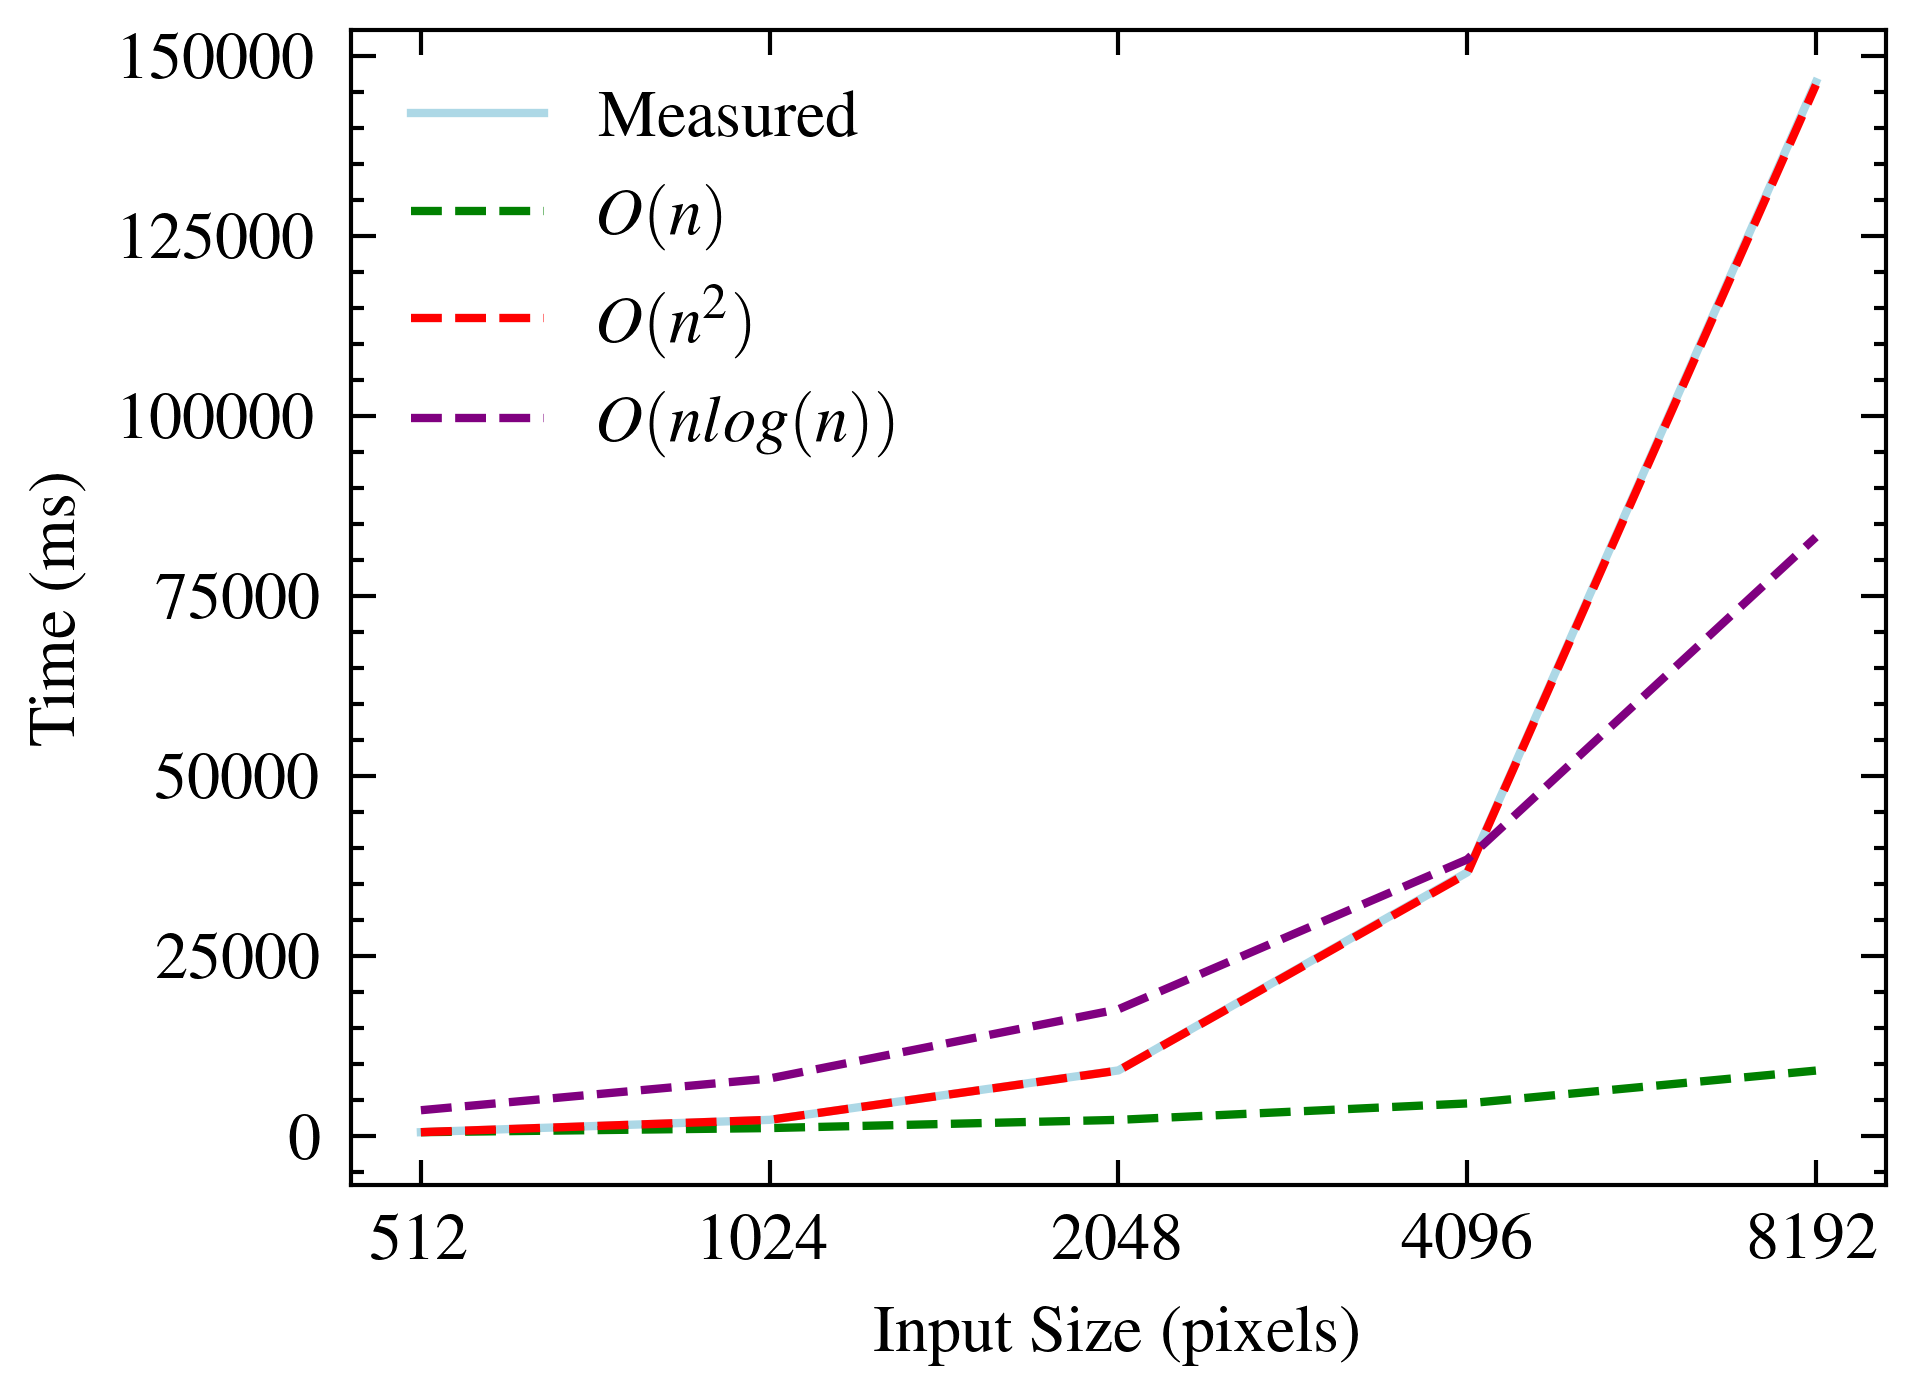
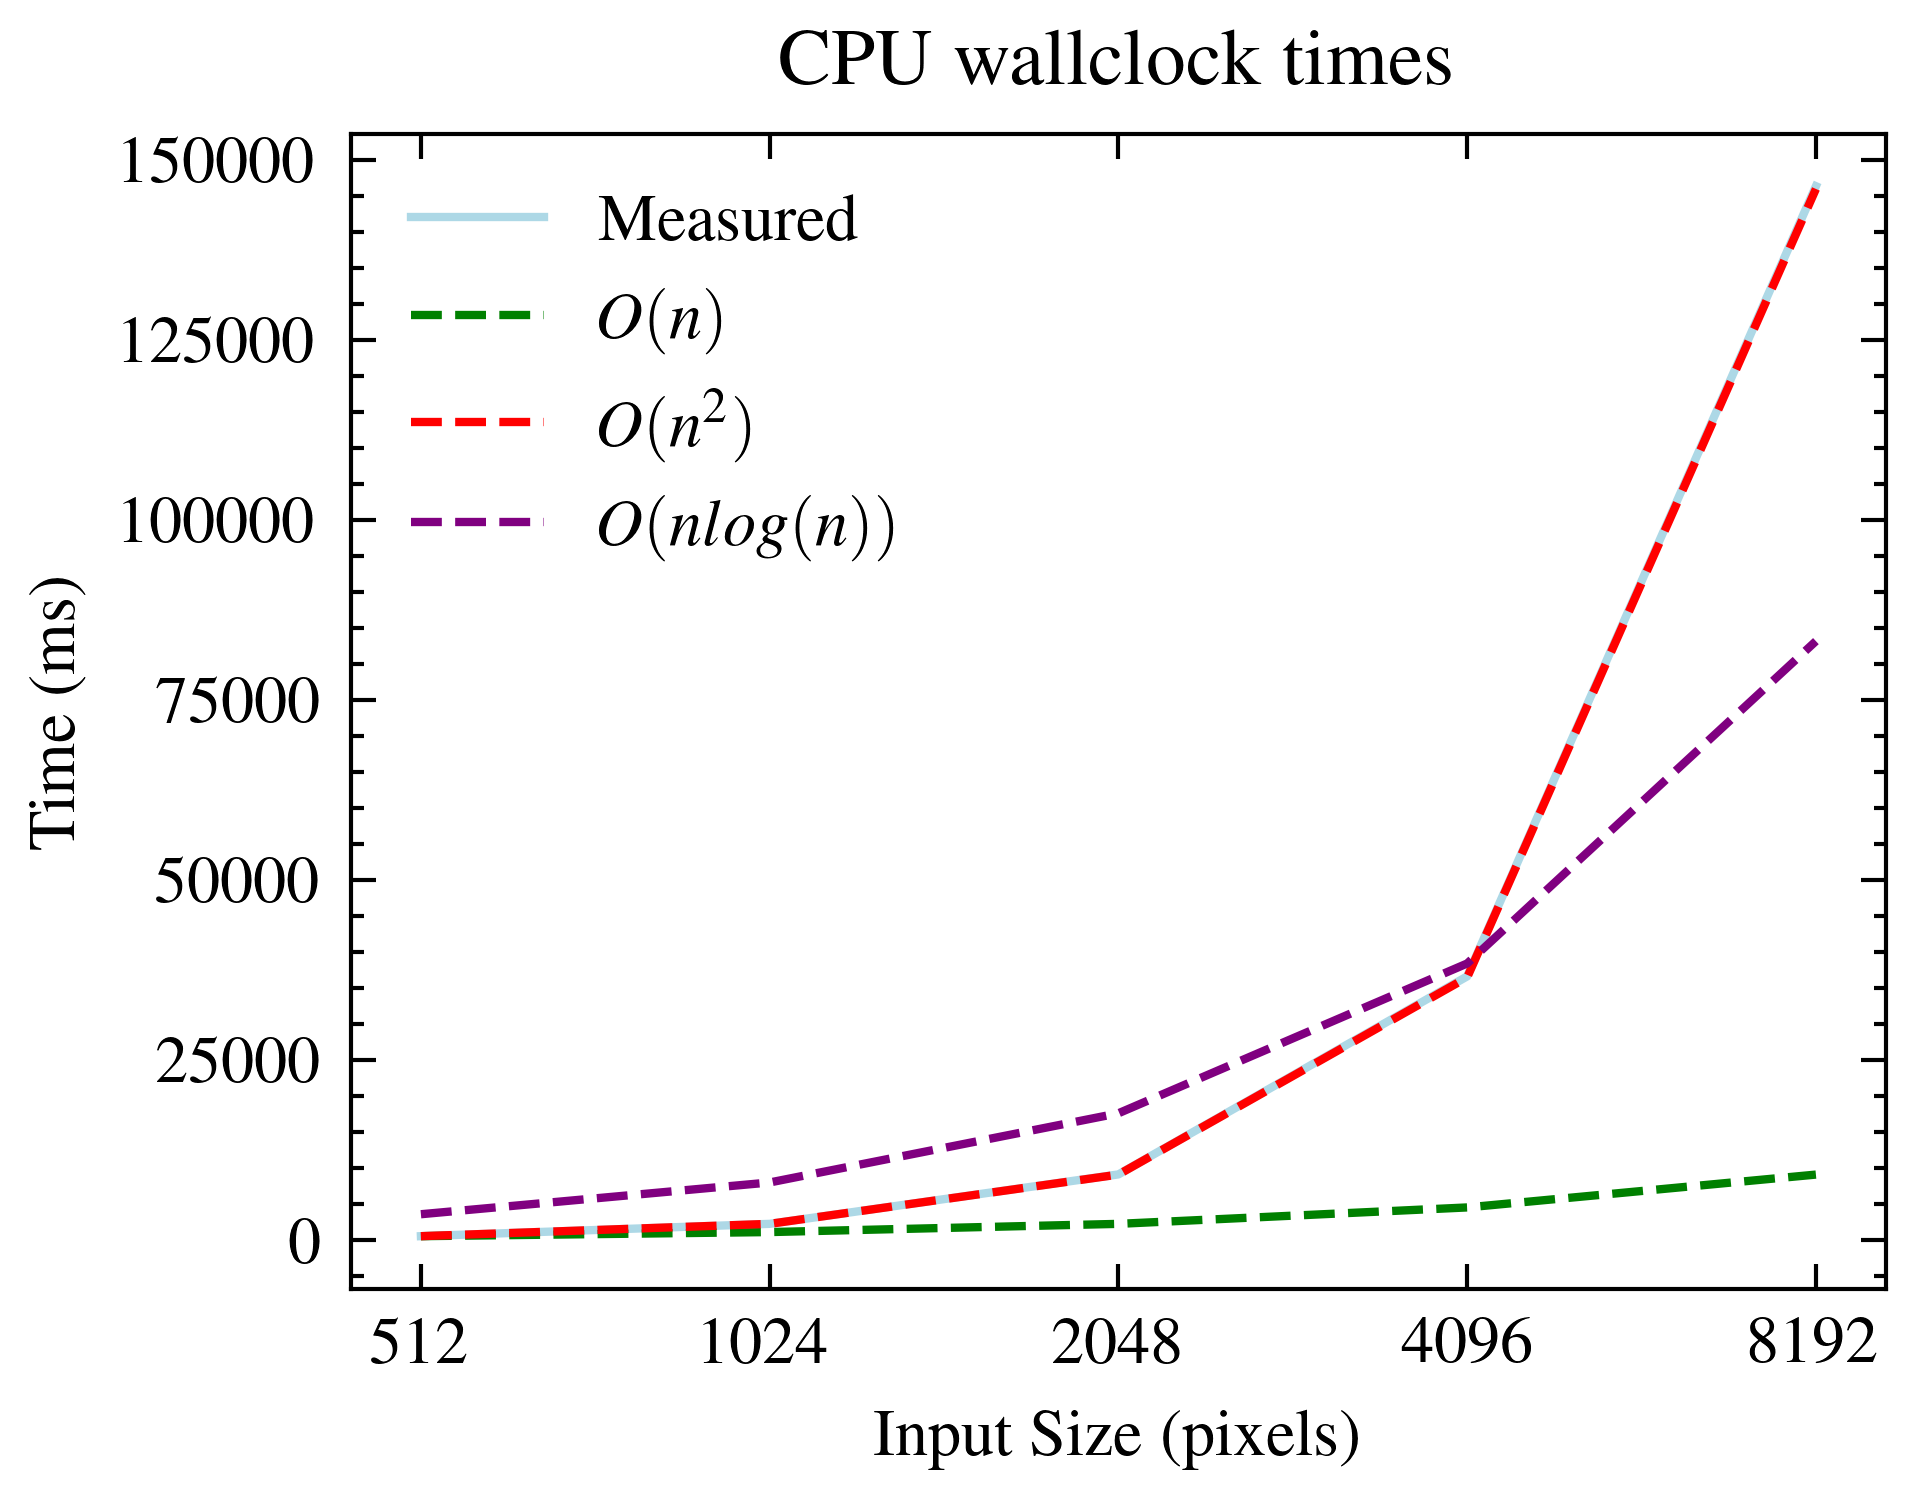
include result in markdown

diff --git a/src/figures.py b/src/figures.py
@@ -22,6 +22,7 @@ onlogn = on * np.log(on)
 ax.plot(x, on, label=r"$O(n)$", color="green", linestyle="--")
 ax.plot(x, on2, label=r"$O(n^2)$", color="red", linestyle="--")
 ax.plot(x, onlogn, label=r"$O(nlog(n))$", color="purple", linestyle="--")
+ax.set_title("GPU wallclock times")
 
 ax.set_ylabel("Time (ms)")
 ax.set_xscale("log", base=2)
@@ -50,6 +51,7 @@ onlogn_cpu = on_cpu * np.log(on_cpu)
 ax.plot(x_cpu, on_cpu, label=r"$O(n)$", color="green", linestyle="--")
 ax.plot(x_cpu, on2_cpu, label=r"$O(n^2)$", color="red", linestyle="--")
 ax.plot(x_cpu, onlogn_cpu, label=r"$O(nlog(n))$", color="purple", linestyle="--")
+ax.set_title("CPU wallclock times")
 
 ax.set_ylabel("Time (ms)")
 ax.set_xscale("log", base=2)

diff --git a/README.md b/README.md
@@ -2,11 +2,11 @@
 
 
 ## Motivation
-This repository was born after reading Mario Antoine Aoun's article about model collapse for generative models in the Communications of the ACM (CACM) [link]. Mario concludes the article by proposing a challenge for generative models to learn to depict images of the Mandelbrot set. The idea behind the challenge is that generative models will *never* be able to comprehend the complex dynamics of the Mandelbrot set. 
+This repository was born after reading Mario Antoine Aoun’s article about model collapse for generative models in the Communications of the ACM ([1](https://cacm.acm.org/opinion/how-generative-models-are-ruining-themselves/)). Mario concludes the article by proposing a challenge for generative models to learn to depict images of the Mandelbrot set. The idea behind the challenge is that generative models will *never* be able to comprehend the complex dynamics of the Mandelbrot set. 
 
 ## Mandelbrot set
 
-The Mandelbrot set [link] was investigated by numerous mathematicians but was first visualized by Benoit Mandelbrot [link]. The set is defined as the set of complex numbers $c$ for which the function $f_c(z) = z^2 + c$ remains bounded when iterated from $z=0$. Points in the complex plane are colored based on the speed of divergence when iterating the function. 
+The Mandelbrot set ([2](https://en.wikipedia.org/wiki/Mandelbrot_set)) was investigated by numerous mathematicians but was first visualized by Benoit Mandelbrot ([3](https://en.wikipedia.org/wiki/Benoit_Mandelbrot)). The set is defined as the set of complex numbers $c$ for which the function $f_c(z) = z^2 + c$ remains bounded when iterated from $z=0$. Points in the complex plane are colored based on the speed of divergence when iterating the function. 
 
 ## Results
 
@@ -14,10 +14,14 @@ The hardware used for benchmarking was an NVIDIA GeForce GTX 1060 with 6GB of VR
 
 The naive version implemented in C++ is significantly slower than the CUDA implementation (no surprise there). The following graph shows the time taken to generate images of increasing resolution for both implementations.
 
-![Graph for CPU](./results/cpu-graph.png)
+<p align="center">
+  <img src="./results/cpu-graph.png" width="45%" />
+  <img src="./results/gpu-graph.png" width="45%" />
+</p>
 
-![Graph showing time taken to generate Mandelbrot set images of increasing resolution for CUDA implementation](./results/graph.png)
+The following image shows a Mandelbrot set generated at a resolution of 4096x4096 pixels using the CUDA implementation.
 
+![Mandelbrot set at 4096x4096 resolution](output.png)
 
 
 ## Repository contents
@@ -43,3 +47,10 @@ The naive version implemented in C++ is significantly slower than the CUDA imple
 ```
 
 
+## References
+
+1. Mario Antoine Aoun. "How Generative Models Are Ruining Themselves." Communications of the ACM, vol. 66, no. 5, May 2023, pp. 18–20. DOI: 10.1145/3584232.
+
+2. "Mandelbrot set." Wikipedia, The Free Encyclopedia. Wikipedia, The Free Encyclopedia, last visited June 10, 2024. https://en.wikipedia.org/wiki/Mandelbrot_set.
+
+3. "Benoit Mandelbrot." Wikipedia, The Free Encyclopedia. Wikipedia, The Free Encyclopedia, last visited June 10, 2024. https://en.wikipedia.org/wiki/Benoit_Mandelbrot.
